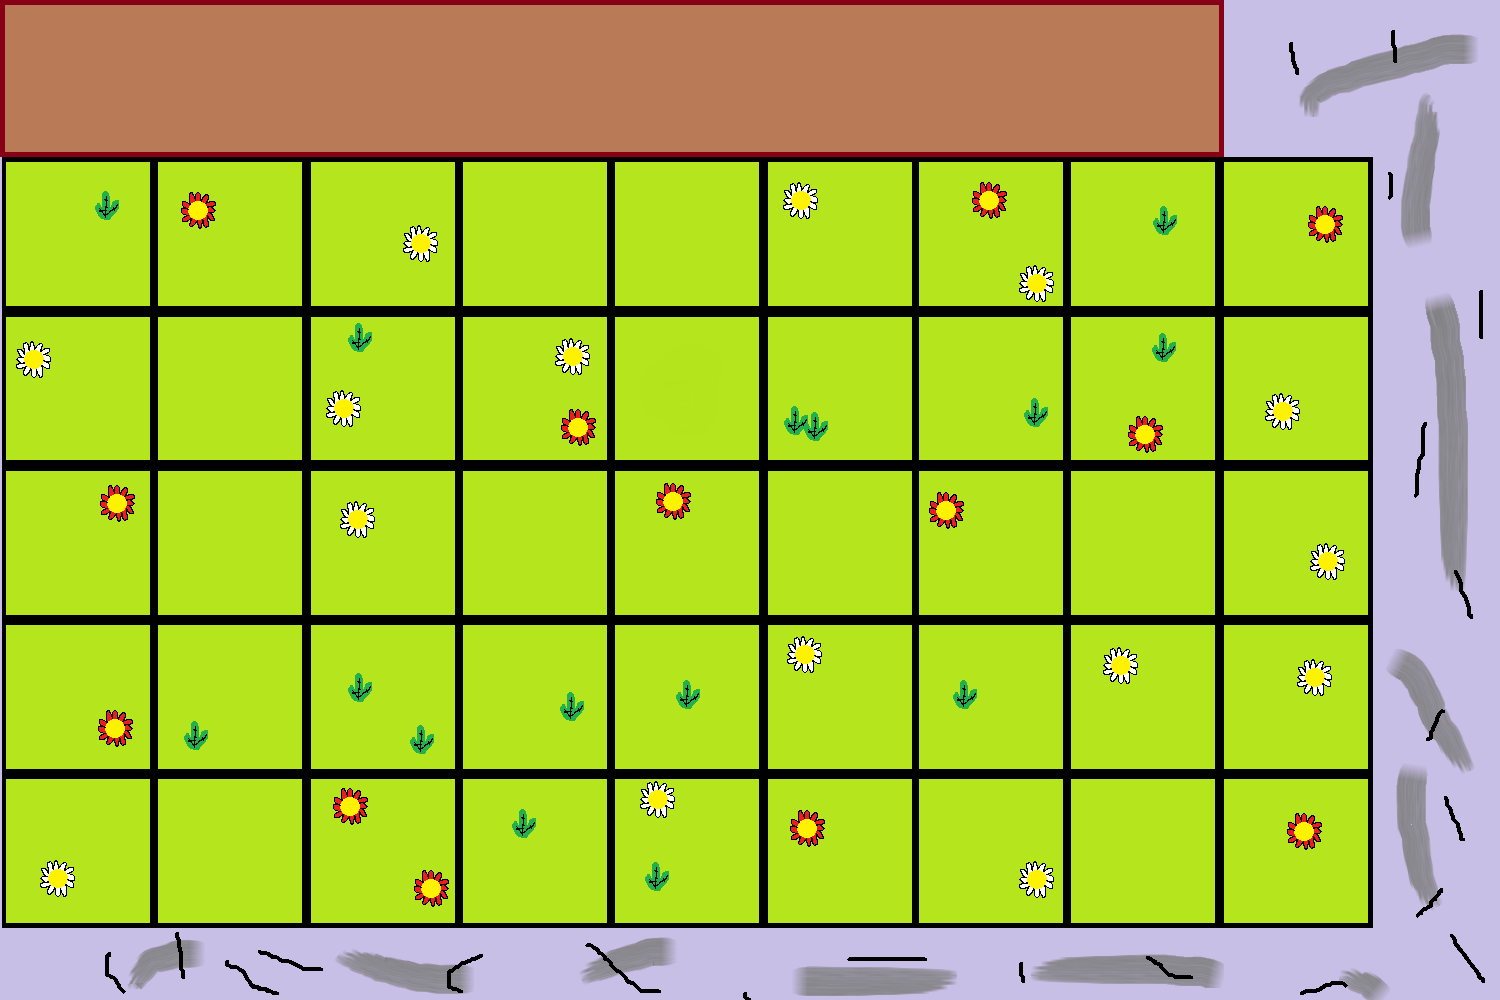
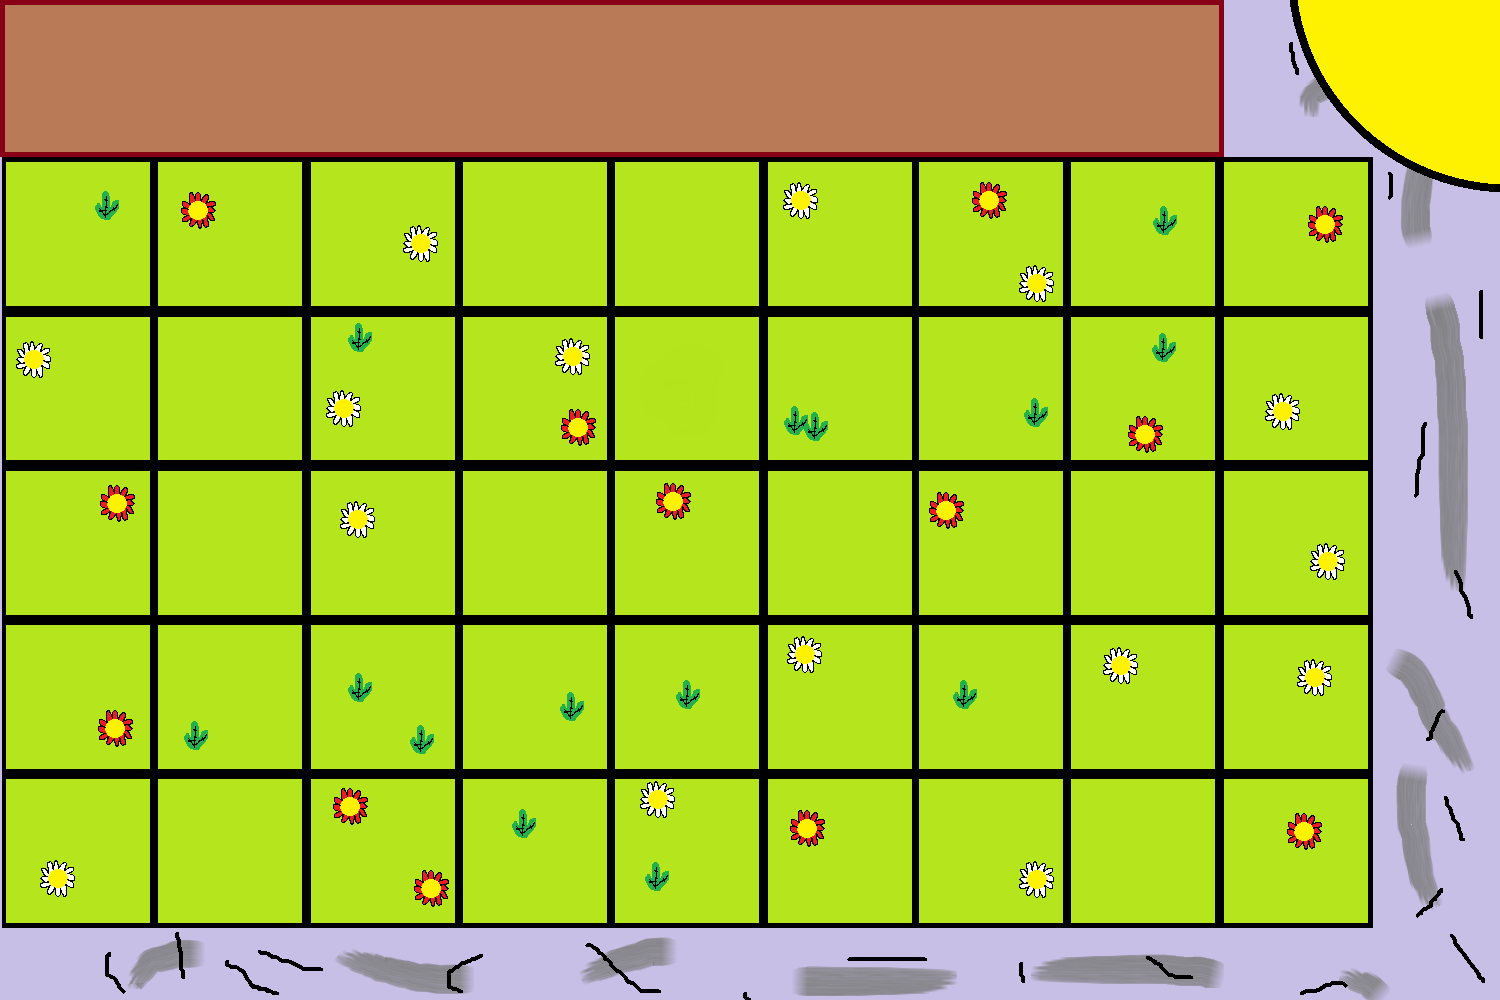
Версия 0.1.1:

Changed region(s): [[0.8587, 0.0, 1.0, 0.217]]

diff --git a/main.py b/main.py
@@ -1,4 +1,6 @@
 import pygame
+import datetime
+import random
 
 
 def open_windows():
@@ -74,6 +76,7 @@ def button_check_help(coord):
 def button_check_play(coord):
     global fl_cursor
     global cursor
+    global mas_flowers
     x, y = coord[0], coord[1]
     if 155 >= y >= 0:
         if 155 >= x >= 1:
@@ -94,19 +97,31 @@ def button_check_play(coord):
             cursor = shovel
         if 1156 >= x >= 1:
             fl_cursor = "not const"
-    if fl_cursor == "not const":
+    if fl_cursor == "not const" and cursor_const != cursor:
         if 930 >= y >= 155 and 1550 >= x >= 1:
-            x = x // 155 * 155
-            y = (y - 155) // 155 * 155
-        if x % 155 == 0 and y % 155 == 0:
-            #"""""""""""""""""""mas_flowers[x][y] = cursor
+            x = x // 155
+            y = (y - 155) // 155
+            if mas_flowers[x][y] == nots and cursor != shovel:
+                mas_flowers[x][y] = cursor
+            elif cursor == shovel:
+                mas_flowers[x][y] = nots
             cursor = cursor_const
-    print(x, y)
+            fl_cursor = "const"
+
+
+def draw_plants():
+    for i in range(9):
+        for j in range(5):
+            screen.blit(mas_flowers[i][j], (i * 155 + 20, j * 155 + 175))
+
+
+def sun_down():
+    screen.blit(sun, (1400, 50))
 
 
 if __name__ == '__main__':
     pygame.init()
-    pygame.display.set_caption("Plants vs monsters")
+    pygame.display.set_caption("Plants vs zombos")
     size = width, height = 1500, 1000
     screen = pygame.display.set_mode(size)
     pygame.mouse.set_visible(False)
@@ -114,11 +129,10 @@ if __name__ == '__main__':
     cursor_const = cursor = pygame.image.load("cursor.png")
     fl_cursor = "const"
     nots = pygame.image.load("not.png")
-    mas_flowers = []
+    mas_flowers = [[nots] * 10 for i in range(10)]
     for i in range(9):
-        mas_flowers.append([])
         for j in range(5):
-            mas_flowers[i].append(nots)
+            mas_flowers[i][j] = nots
     print(mas_flowers)
     background = pygame.image.load("background.png").convert()
     help_background = pygame.image.load("help_background.png").convert()
@@ -136,14 +150,20 @@ if __name__ == '__main__':
     cherry = pygame.image.load("cherry.png")
     thorns = pygame.image.load("thorns.png")
     shovel = pygame.image.load("shovel.png")
+    sun = pygame.image.load("sun.png")
     fl = "start"
     # pygame.mixer.music.load('music_start.mp3')
-    #pygame.mixer.music.play()
+    # pygame.mixer.music.play()
     running = True
+    open_windows()
+    pygame.display.flip()
+    time_fl = 0
+    now = datetime.datetime.now()
+    then = datetime.datetime.now()
     while running:
-        open_windows()
-        draw_cursor(pygame.mouse.get_pos())
         for event in pygame.event.get():
+            open_windows()
+            draw_plants()
             if event.type == pygame.QUIT:
                 running = False
             if event.type == pygame.MOUSEBUTTONDOWN:
@@ -154,10 +174,9 @@ if __name__ == '__main__':
                 if fl == "play":
                     button_check_play(pygame.mouse.get_pos())
             if event.type == pygame.MOUSEMOTION:
-                open_windows()
-                if pygame.mouse.get_focused():
-                    draw_cursor(pygame.mouse.get_pos())
-                pygame.display.flip()
+                draw_cursor(pygame.mouse.get_pos())
+            draw_cursor(pygame.mouse.get_pos())
+            pygame.display.flip()
             clock.tick(60)
             pygame.display.set_caption("fps: " + str(clock.get_fps()))
             pygame.display.update()
